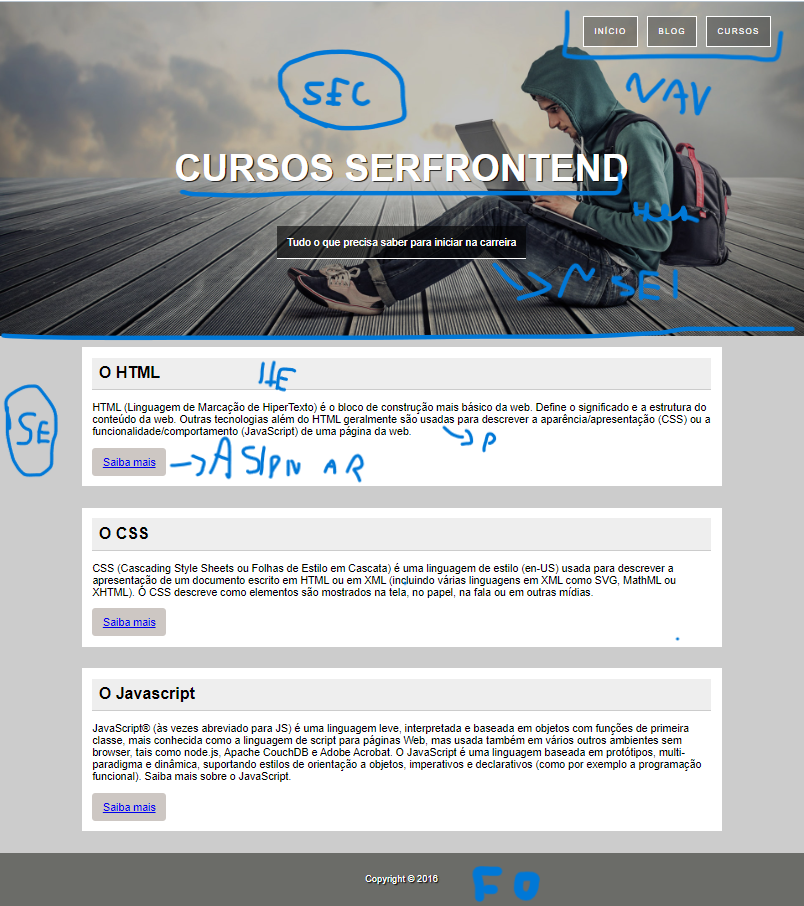
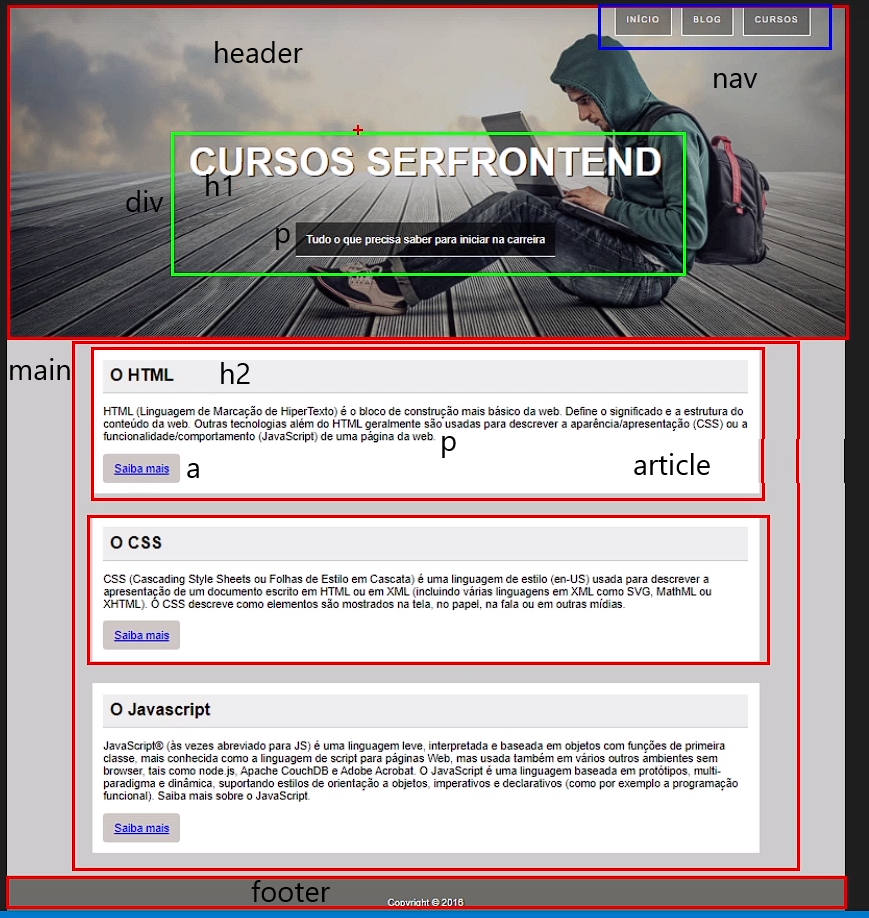
OK (refatorar)

diff --git a/htmlSemantico/main.css b/htmlSemantico/main.css
@@ -1,38 +1,47 @@
 body{
   font-family: Arial, Helvetica, sans-serif;
+  margin: 0;
+  background-color: #cecdcb;
 }
 
 .sup-sec{
   padding-top: 1px;
-  height: 400px;
-  background-color: antiquewhite;
+  height: 350px;
 
   background-image: url(imagens/bg-3.jpg);
   background-attachment: fixed;
-  background-size: contain;
+  background-size: 100%;
+  background-repeat: no-repeat;
 }
 
-.sup-sec header, div{
-  background-color: antiquewhite;
+.sup-sec header{
   text-align: center;
   margin: auto;
-  position: relative;
-  top: 50%;
+  font-size: 30px;
+  color: white;
+  text-shadow: 1px 1px #1d1c1a;
+}
+
+.sup-sec div{
+  width: fit-content;
+  margin: auto;
+  padding: 15px;
+  box-shadow: 0 2px;
+  color: rgb(255, 255, 255);
+  background-color: #0b0909aa;
 }
 
 .sup-sec ul{
   list-style-type: none;
-  padding-right: 20px;
-  padding-top: 8px;
+  padding: 10px 10% 0 0;
 }
 
 ul li{
-  /* background-color: aqua; */
   float: right;
   margin-left: 15px;
   padding: 10px;
   opacity: 60%;
-  background-color: rgb(97, 105, 102);
+  background-color: #616966;
   border: 1px solid white;
 }
 
@@ -46,8 +55,43 @@ nav a{
   color: white;
 }
 
-body{
-  /* background-color: aqua; */
-  padding: 0;
-  margin: 0;
+.sub-sec{
+  margin: 10px 30%;
+}
+
+.sub-sec article{
+  background-color: rgb(255, 255, 255);
+  padding: 1px 15px 10px 15px;
+  margin-bottom: 20px;
+}
+
+.sub-sec header{
+  padding: 0px 10px 5px 10px;
+  box-shadow: 0px 1px;
+  background-color: rgb(230, 231, 232);
+}
+
+.sub-sec p{
+  font-size: 19px;
+  line-height: 1.5;
+  text-align: justify;
+}
+
+.sub-sec aside{
+  background-color: rgb(220, 219, 217);
+  width: max-content;
+  padding: 10px;
+  margin-bottom: 5px;
+}
+
+footer{
+  height: 60px;
+  background-color: black;
+  opacity: 45%;
+}
+
+footer p{
+  text-align: center;
+  padding-top: 20px;
+  color: rgb(255, 255, 255);
 }

diff --git a/htmlSemantico/index.html b/htmlSemantico/index.html
@@ -13,15 +13,15 @@
     <nav>
       <ul>
         <li><a href="#">INÍCIO</a></li>
-        <li><a href="">CURSOS</a></li>
-        <li><a href="">BLOG</a></li>
+        <li><a href="#">CURSOS</a></li>
+        <li><a href="#">BLOG</a></li>
       </ul>
     </nav>
     <header>
       <h1><br>CURSOS SERFRONTEND</h1>
     </header>
     <div>
-      Tudo o que precisa saber para iniciar na carreira
+      <strong>Tudo o que precisa saber para iniciar na carreira</strong>
     </div>
   </section>
   <section class="sub-sec">
@@ -60,7 +60,7 @@
     </article>
   </section>
   <footer>
-    Copyright &copy; 2023
+    <p>Copyright &copy; 2023</p>
   </footer>
 
 </body>
